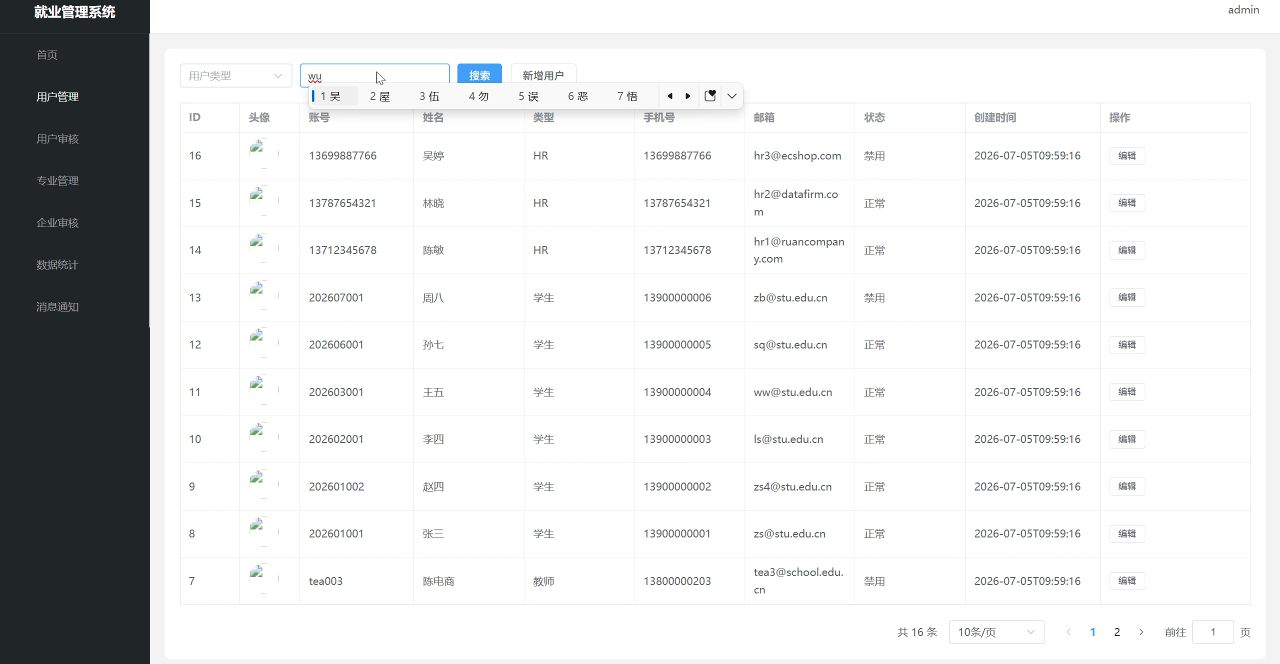
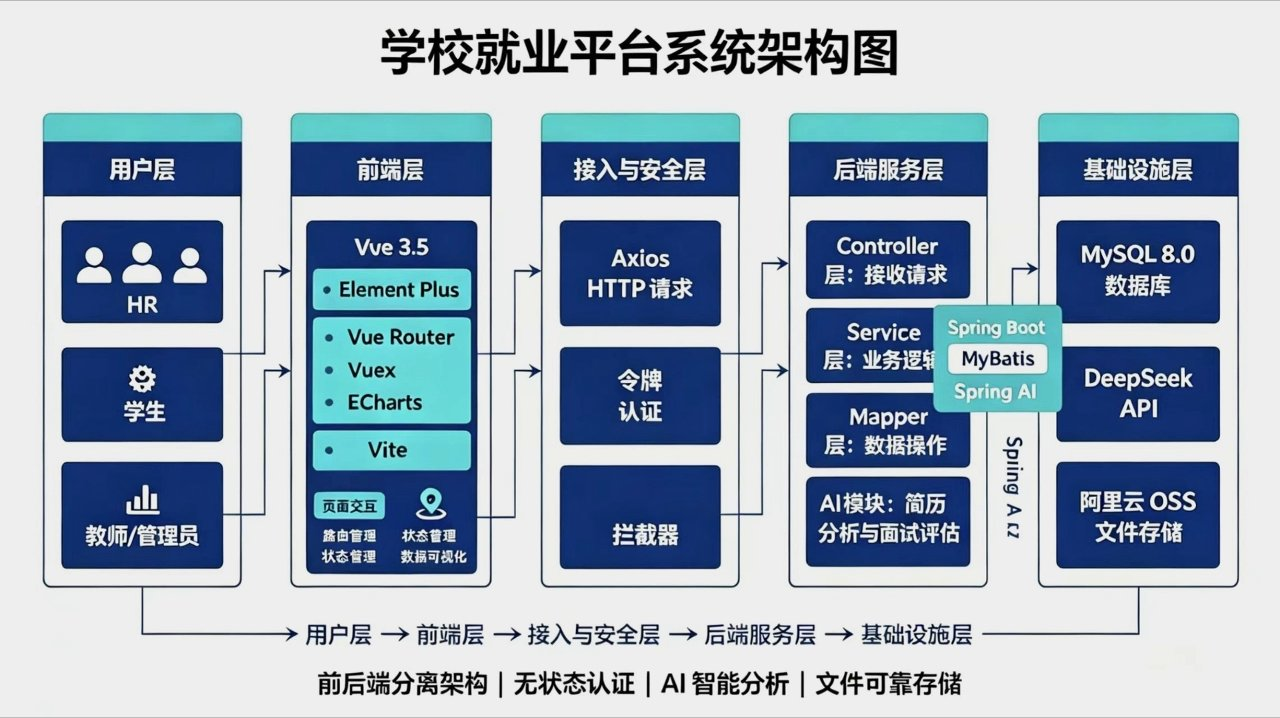
feat: 替换校招平台演示视频与封面，预加载字体并预连接 OSS，全站悬停与光影细节优化

diff --git a/src/styles/global.css b/src/styles/global.css
@@ -432,6 +432,7 @@ p {
 .button.primary:hover {
   background: var(--accent);
   color: var(--ink);
+  box-shadow: 0 12px 26px -14px rgba(232, 89, 12, 0.6);
 }
 
 .button.secondary {
@@ -1219,6 +1220,11 @@ section[id] {
   overflow: hidden;
   padding: clamp(48px, 7vw, 92px) 0 clamp(32px, 4.4vw, 52px);
   border-bottom: 1px solid var(--line);
+  background: radial-gradient(
+    820px 360px at 88% -12%,
+    rgba(232, 89, 12, 0.05),
+    transparent 62%
+  );
 }
 
 .page-hero::after {
@@ -1300,12 +1306,13 @@ section[id] {
   border-radius: var(--radius);
   background: var(--surface);
   transition: transform 0.24s var(--ease-out),
-    border-color 0.24s var(--ease-out);
+    border-color 0.24s var(--ease-out), box-shadow 0.24s var(--ease-out);
 }
 
 .project-card:hover {
   transform: translateY(-2px);
   border-color: var(--line-strong);
+  box-shadow: 0 18px 44px -28px rgba(23, 24, 26, 0.3);
 }
 
 .project-card .work-cover {
@@ -1351,11 +1358,14 @@ section[id] {
   border: 1px solid var(--line);
   border-radius: var(--radius);
   background: var(--surface);
-  transition: border-color 0.24s var(--ease-out);
+  transition: transform 0.24s var(--ease-out),
+    border-color 0.24s var(--ease-out), box-shadow 0.24s var(--ease-out);
 }
 
 .demo-card:hover {
+  transform: translateY(-2px);
   border-color: var(--line-strong);
+  box-shadow: 0 18px 44px -28px rgba(23, 24, 26, 0.3);
 }
 
 .demo-card .video-player {
@@ -1635,6 +1645,11 @@ section[id] {
   overflow: hidden;
   padding: clamp(44px, 6vw, 78px) 0 clamp(28px, 4vw, 44px);
   border-bottom: 1px solid var(--line);
+  background: radial-gradient(
+    760px 340px at 82% -10%,
+    rgba(232, 89, 12, 0.05),
+    transparent 62%
+  );
 }
 
 .breadcrumb {
@@ -2100,6 +2115,7 @@ section[id] {
   border-radius: var(--radius);
   background: var(--night);
   color: #a8a9ad;
+  box-shadow: 0 26px 52px -34px rgba(18, 18, 18, 0.55);
 }
 
 .profile-card::before {
@@ -2439,6 +2455,13 @@ section[id] {
   color: transparent;
   -webkit-text-stroke: 1px rgba(255, 255, 255, 0.18);
   user-select: none;
+  transition: color 0.5s var(--ease-out),
+    -webkit-text-stroke-color 0.5s var(--ease-out);
+}
+
+.footer-wordmark-wrap:hover .footer-wordmark {
+  color: rgba(255, 255, 255, 0.05);
+  -webkit-text-stroke-color: rgba(255, 255, 255, 0.34);
 }
 
 .footer-bottom {
@@ -2512,6 +2535,17 @@ section[id] {
   letter-spacing: -0.06em;
   color: transparent;
   -webkit-text-stroke: 1px var(--line-strong);
+}
+
+.not-found .code::after {
+  content: "";
+  display: inline-block;
+  width: 0.42em;
+  height: 0.085em;
+  margin-left: 0.08em;
+  background: var(--accent);
+  vertical-align: 0.1em;
+  animation: caret-blink 1.2s steps(2, start) infinite;
 }
 
 .not-found h1 {

diff --git a/src/content/projects/campus-job-platform.md b/src/content/projects/campus-job-platform.md
@@ -12,7 +12,7 @@ role: 全栈开发
 stack: [Spring Boot, Vue 3, MyBatis, MySQL, Spring AI]
 repoUrl: https://github.com/3323443925-gif/Campus-Enterprise-Job-Platform
 demoUrl: https://campus-enterprise-job-platform.vercel.app
-videoUrl: https://ssfeng-java-ai.oss-cn-beijing.aliyuncs.com/7%E6%9C%885%E6%97%A5.mp4
+videoUrl: https://ssfeng-java-ai.oss-cn-beijing.aliyuncs.com/%E6%A0%A1%E4%BC%81%E6%8B%9B%E8%81%98%E5%B9%B3%E5%8F%B0.mp4
 videoPoster: /videos/campus-demo.jpg
 highlights:
   - 四类角色 + JWT 后端鉴权，覆盖完整招聘流程
